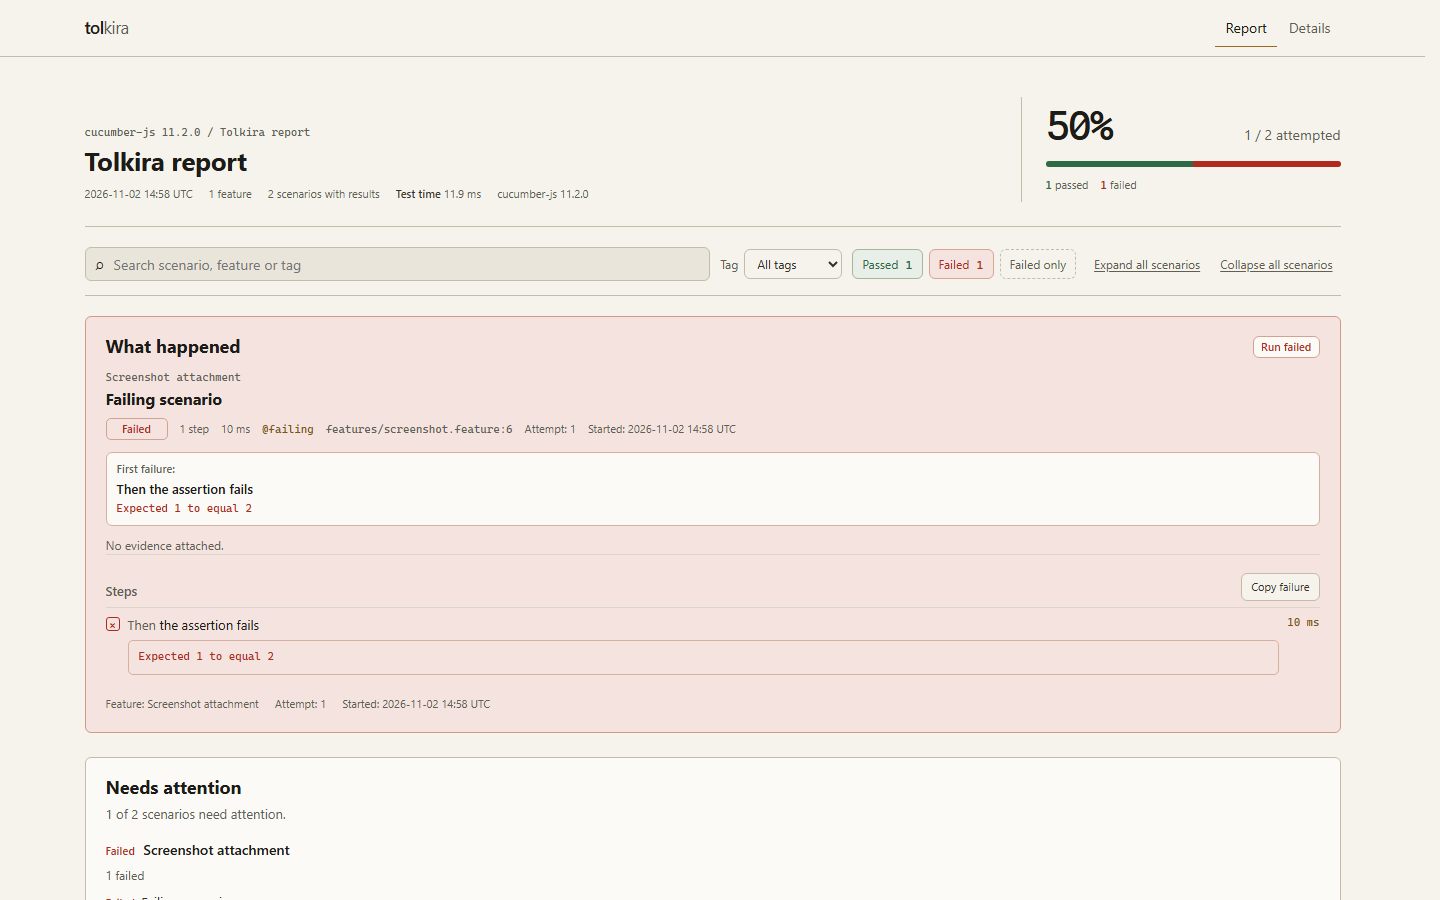
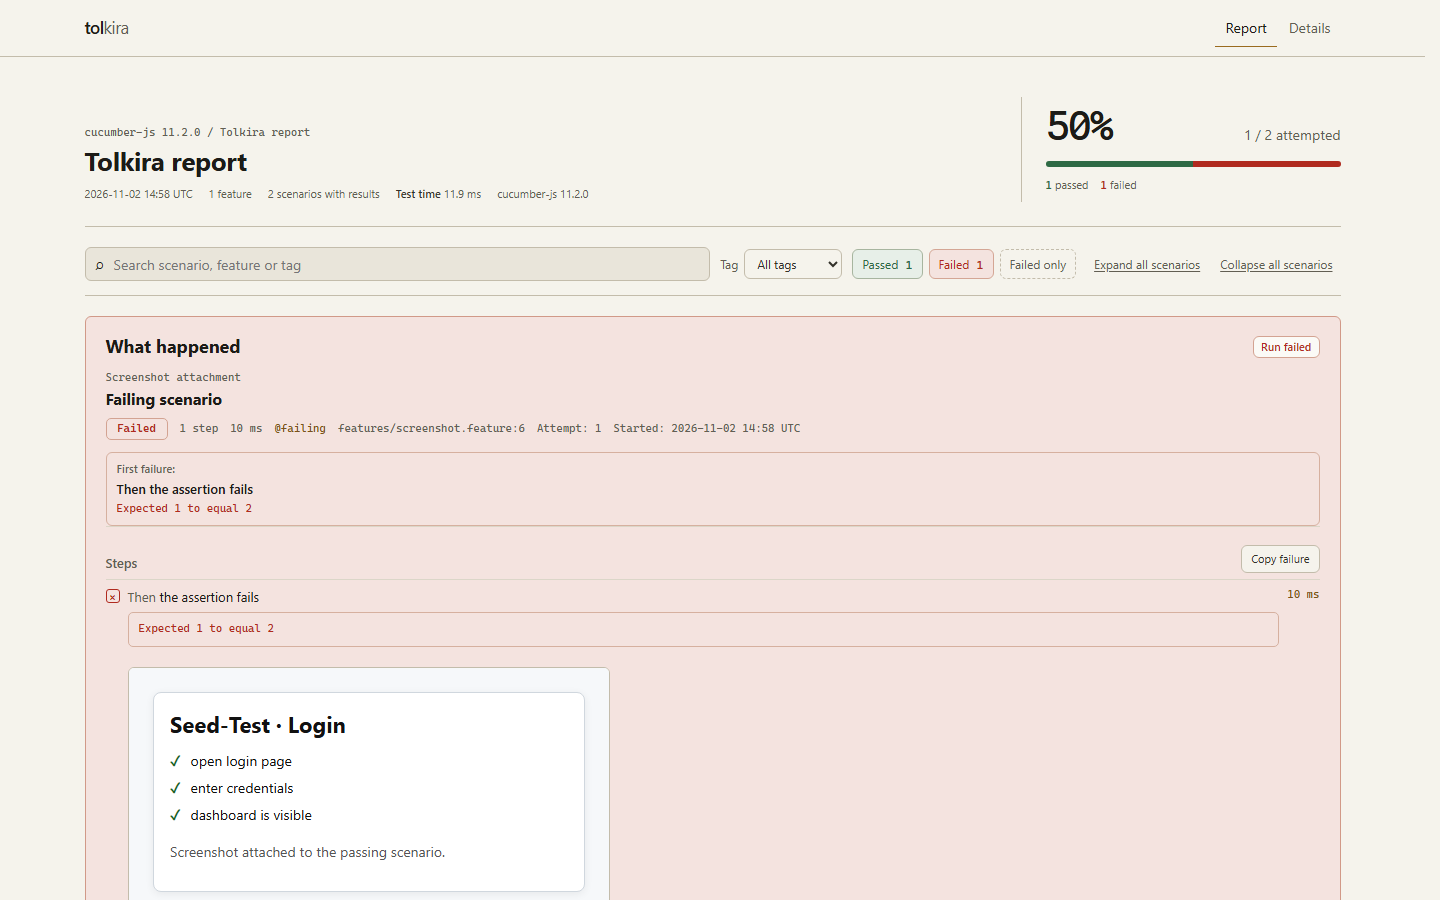
docs(report): refresh incident rasters and record review fixes (B-057)

diff --git a/openspec/changes/report-incident-review/proposal.md b/openspec/changes/report-incident-review/proposal.md
@@ -35,14 +35,16 @@ Tracking: no remote issue; this is the 0.7 redesign slice under B-057.
   the first failing step and the first line of its error (or the diagnostic
   lead and the baseline badge); the full detail follows. The panel is not
   affected by the toolbar search or status/tag filters and has no CTA into the
-  filtered index. The copy-scope fix is the only client change (failure copy
-  only; the log copy keeps its attachment details), and its bundle delta is
+  filtered index. The client changes are the failure copy scope (failure copy
+  only; the log copy keeps its attachment details), the scenario-scoped
+  expand/collapse controls and the list-scoped empty copy; the bundle delta is
   measured. The expand/collapse controls are scoped to scenario rows so the
   panel stays open; the filtered empty copy names the list; the triage's first
   link points at the panel.
 - When several scenarios need attention, the panel shows the first and a
   localized remaining count; the rest stay in the triage block and the index.
-  No selector and no new script; the copy-scope fix is the only client change.
+  No selector and no new script; those three small client deltas are the only
+  client change.
 - Render the panel in the default, static, print and PDF forms.
 - Apply the Incident review visual language in a **separate commit** from the
   panel: chart-neutral paper and ink, one system sans, mono for measurements,
@@ -52,7 +54,8 @@ Tracking: no remote issue; this is the 0.7 redesign slice under B-057.
   inherit the tokens. Each commit re-pins the report characterization hashes.
 
 Out of scope: no summary, JSON, CI, email, manifest or history schema change; no
-new client script file (one existing-client copy-scope fix); no input,
+new client script file (three small existing-client changes: failure copy scope,
+scenario-scoped expand/collapse, list-scoped empty copy); no input,
 attachment-policy or path change; no Details/Trends layout change beyond shared
 tokens; no removal of the triage block; no run-level hook panel
 (BeforeAll/AfterAll stay in the existing run hooks section); no dependency; no
@@ -74,5 +77,5 @@ tokens. There is no second copy of the detail; a screenshot still appears as
 the row thumbnail and in the panel detail, exactly as today's open row renders
 it, and that duplicated payload is measured with a screenshot fixture. The JSON
 summary, CI output, email, manifest and history bytes stay unchanged. The
-client bundle changes only by the copy-scope fix, measured. Every host row and
+client bundle changes only by the three small client deltas, measured. Every host row and
 the three-engine browser matrix apply because the report shell changes.

diff --git a/openspec/changes/report-incident-review/design.md b/openspec/changes/report-incident-review/design.md
@@ -122,7 +122,8 @@ feature index: its copy says no scenarios **in the list** match and the
 incident panel remains visible. The triage's first-incident link points at the
 panel (`#incident`); the rest point at their rows. The selected incident id is
 passed to `renderTriage` as a parameter; the selector stays in `report.ts`, so
-no import cycle is introduced. The copy-scope fix is the only client change.
+no import cycle is introduced. The client changes are the failure copy scope,
+the scenario-scoped expand/collapse controls and the list-scoped empty copy.
 
 The panel detail stays open and is not a disclosure; the toolbar's expand and
 collapse controls are scoped to the scenario rows ("scenarios") so they do not
@@ -242,7 +243,7 @@ the README hero screenshot is refreshed with raster provenance.
 - Duplication with the triage is navigation, not evidence; the triage stays.
 - Report bytes: the detail moves, it is not duplicated; the size delta is
   measured. JSON/CI/email/manifest/history bytes stay unchanged; the client
-  bundle changes only by the copy-scope fix, measured.
+  bundle changes only by the three small client deltas, measured.
 - CMP parity records only the intended report differences.
 
 ## 9. Acceptance criteria
@@ -268,8 +269,8 @@ the README hero screenshot is refreshed with raster provenance.
   baseline badge; the remaining-count line renders when several incidents
   exist.
 - AC6: Default, static, print and PDF render the panel; it is not filtered; no
-  new client script or network request is added; the one copy-scope fix keeps
-  the copy actions working.
+  new client script or network request is added; the three small client
+  deltas keep the copy actions working.
 - AC7: No evidence yields the localized no-evidence line; attachments use the
   existing safe path; escaping is unchanged.
 - AC8: English and German catalogs carry every new key; plurals use the
@@ -282,8 +283,8 @@ the README hero screenshot is refreshed with raster provenance.
   contrast holds on paper, surface-2 and surface-3, including status text, in
   light, dark and print.
 - AC11: Report HTML changes by design; summary, JSON, CI, email, manifest and
-  history bytes are unchanged; the client bundle changes only by the
-  copy-scope fix, measured; the report-size delta is recorded; characterization
+  history bytes are unchanged; the client bundle changes only by the three
+  small client deltas, measured; the report-size delta is recorded; characterization
   hashes are re-pinned per commit; host rows 1-5, the three-engine matrix and
   CMP are recorded.
 - AC12: The toolbar's expand/collapse controls are scoped to scenario rows; the

diff --git a/docs/COMPARISON.md b/docs/COMPARISON.md
@@ -27,7 +27,8 @@ compares the report shell and migration content only; `--static`, history and
 
 ## Screenshots
 
-Overview: [`overview.png`](comparison/overview.png).
+Overview: `overview.png` is the 0.6-era composite and is not part of this 0.7
+comparison; the table below shows the current shell.
 All images are in [`docs/comparison/`](comparison/).
 
 | Mode | Old reporter | Tolkira |
@@ -35,8 +36,8 @@ All images are in [`docs/comparison/`](comparison/).
 | Scenario, expanded | [`old-scenario-expanded.png`](comparison/old-scenario-expanded.png) | [`new-shell-scenario-expanded.png`](comparison/new-shell-scenario-expanded.png) |
 | Story, expanded | [`old-story-expanded.png`](comparison/old-story-expanded.png) | [`new-shell-story-expanded.png`](comparison/new-shell-story-expanded.png) |
 | Group, expanded | [`old-group-expanded.png`](comparison/old-group-expanded.png) | [`new-shell-group-expanded.png`](comparison/new-shell-group-expanded.png) |
-| Failed story, expanded | [`old-failed-expanded.png`](comparison/old-failed-expanded.png) | [`new-shell-failed.png`](comparison/new-shell-failed.png) |
-| Screenshot attachment | [`old-screenshot-expanded.png`](comparison/old-screenshot-expanded.png) | [`new-shell-screenshot.png`](comparison/new-shell-screenshot.png) |
+| Failed story, expanded | [`old-failed-expanded.png`](comparison/old-failed-expanded.png) | [`new-shell-failed-expanded.png`](comparison/new-shell-failed-expanded.png) |
+| Screenshot attachment (incident panel) | [`old-screenshot-expanded.png`](comparison/old-screenshot-expanded.png) | [`new-shell-screenshot.png`](comparison/new-shell-screenshot.png) |
 | Offline, story | [`old-story-offline.png`](comparison/old-story-offline.png) | [`new-shell-story-offline.png`](comparison/new-shell-story-offline.png) |
 
 ## What works
@@ -61,8 +62,8 @@ All images are in [`docs/comparison/`](comparison/).
 
 - Old story report: about 100 kB, but with four remote dependencies.
 - Tolkira story report: one HTML file with CSS and script inline and no
-  network dependency. The stylesheet source is 50,569 B; every report embeds
-  its 43,924 B minified form, 6,645 B (13 %) smaller.
+  network dependency. The stylesheet source is 51,961 B; every report embeds
+  its 45,203 B minified form.
 - Tolkira stress run (`npm run stress -- <count>`):
   - 1,000 scenarios / 3,000 steps: about 0.22 s, 1.4 MB HTML.
   - 5,000 scenarios / 15,000 steps: about 0.42 s, 6.9 MB HTML.

diff --git a/docs/comparison/PROVENANCE.md b/docs/comparison/PROVENANCE.md
@@ -1,23 +1,33 @@
 # Comparison raster provenance
 
 All `new-shell-*.png` images and `tolkira-0.7-report.png` were captured on
-2026-11-27 from the 0.7 Incident review development snapshot.
+2026-11-27 from the 0.7 Incident review development snapshot at HEAD after the
+row-link and status-token fixes.
 
 - Host: Windows, Chromium via the repository's Playwright dev dependency.
 - Viewport: 1440 × 900, device scale factor 1, light colour scheme unless the
   file name says `dark`.
+- `*expanded` captures click `Expand all scenarios` before the screenshot and
+  use a full-page capture so the expanded rows and the row link are visible;
+  the other captures are viewport-only.
 - `new-shell-scenario*`: `test/fixtures/legacy/minimal.json`, title `Seed-Test`.
 - `new-shell-story*`: `test/fixtures/legacy/happy.json`, title
-  `Seed-Test story`; `-analysis` opens the Details tab.
+  `Seed-Test story`; `-analysis` opens the Details tab; `-offline` uses an
+  offline browser context.
 - `new-shell-group*`: `happy.json`, `unhappy.json` and `minimal.json`, title
   `Seed-Test group`.
-- `new-shell-failed*` and `new-shell-dark.png`: `unhappy.json`, title
-  `Seed-Test failed`.
+- `new-shell-failed*` and `new-shell-dark.png`: `failed.json`, title
+  `Seed-Test failed`. `failed.json` carries the only real failed step in these
+  fixtures.
 - `new-shell-screenshot*` and `tolkira-0.7-report.png`:
-  `test/fixtures/messages/screenshot.ndjson`, title `Tolkira report`.
-- `new-shell-story-offline.png`: the story report with the browser context
-  offline; the single file needs no network.
-- `*expanded` captures click `Expand all scenarios` before the screenshot.
+  `test/fixtures/messages/screenshot.ndjson`, title `Tolkira report`, with its
+  inline PNG moved from the passing scenario's step to the failing scenario's
+  failed step so the incident panel shows the screenshot as evidence. The base
+  fixture itself attaches the image to the passing scenario.
+- `tolkira-0.7-report.png` is the byte-identical viewport capture of
+  `new-shell-screenshot.png`; it is a development snapshot, not a release hero.
+- `overview.png` is the 0.6-era composite from 2026-11-04. It predates the
+  incident panel and is not part of the 0.7 comparison.
 
 Reproduce with the built CLI and a Playwright Chromium page:
 

diff --git a/openspec/changes/report-incident-review/tasks.md b/openspec/changes/report-incident-review/tasks.md
@@ -39,7 +39,8 @@
   elevated/shadowed container. Add a contrast assertion over paper,
   surface-2, surface-3 and the status text in light, dark and print. Prove
   summary, JSON, CI, email, manifest and history bytes unchanged; the client
-  bundle delta is the copy-scope fix only.
+  bundle delta is explained by the three allowed client changes: the failure
+  copy scope, scenario-scoped expand/collapse and the list-scoped empty copy.
 - [x] 2.4 Write `test/e2e/incident.spec.ts`: above-the-fold minimum (summary,
   status, first failing step and the first error line), row link keyboard and
   focus, copy failure/log inside the panel with the feature title, scenario
@@ -106,13 +107,11 @@
 - [x] 4.2 Run `npm run check` (typecheck, lint, knip, format, build, coverage)
   and `npm run hygiene`.
   Result: i18n, assets, typecheck, lint, knip, format and build passed; the
-  unit/coverage run has 2,157 passed, 11 skipped and 3 failed of 2,171 tests.
-  Three Red tests in
-  `test/render-incident.test.ts` remain red because they assume 0-based
-  `scenarioId`s and count closed-row `.detailInline` bodies, which contradicts
-  the existing 1-based anchors (`#scenario-1-1` in the Red e2e) and the
-  server-rendered body every `<details>` needs for no-JS opening. They were not
-  edited or skipped. `npm run hygiene` is green.
+  unit/coverage run has 2,162 passed, 11 skipped and 0 failed of 2,173 tests.
+  Correction: the earlier record of three Red tests was stale; `5654f8f`
+  corrected their 0-based ids to the existing 1-based anchors and their
+  closed-row `.detailInline` count to one server-rendered body per disclosure
+  row. No test is skipped or loosened. `npm run hygiene` is green.
 - [ ] 4.3 Run `npm run test:e2e` on Chromium, Firefox and WebKit; viewports
   320, 390, 768, 1024, 1440 and 320 at 200 % text zoom.
 - [ ] 4.4 Run host rows 1-5 from `docs/DROP-IN-VALIDATION.md`; record host,

diff --git a/openspec/changes/report-incident-review/specs/report-rendering/spec.md b/openspec/changes/report-incident-review/specs/report-rendering/spec.md
@@ -47,8 +47,9 @@ in that set.
   their rows; the triage may list additional skipped rows beyond the incident
   set
 - **AND** the others stay reachable through the triage block and the index
-- **AND** no selector and no new script are added; the copy-scope fix is the
-  only client change
+- **AND** no selector and no new script are added; the client changes are the
+  failure copy scope, scenario-scoped expand/collapse and the list-scoped empty
+  copy
 
 #### Scenario: Mixed skipped and failed rows
 
@@ -77,7 +78,7 @@ in that set.
 - **AND** the triage and source strip keep their existing client hiding
 - **AND** the filtered empty state is scoped to the feature index and says no
   scenarios in the list match
-- **AND** the copy-scope fix does not change filtering
+- **AND** the client changes do not change filtering
 
 #### Scenario: Expand and collapse controls
 

diff --git a/DESIGN.md b/DESIGN.md
@@ -66,8 +66,9 @@ Use the token names, never raw colours.
 | `--radius`, `--shadow` | Shared 6 px panel radius; no elevation (`none`) |
 
 The Incident review palette is chart-neutral paper and ink with compact chips
-and one-pixel rules. Status colours keep their role; every text role holds at
-least 4.5:1 contrast on paper, surface-2 and surface-3 in light, dark and print.
+and one-pixel rules. Status colours keep their role; every text role used holds
+at least 4.5:1 contrast on paper, surface-2 and surface-3 in light, dark and
+print (ink, ink-2, muted, accent-text, pass, fail, pending and undefined).
 The ANSI palette is unchanged.
 
 Dark mode is a token override under `prefers-color-scheme: dark`; it never

diff --git a/README.md b/README.md
@@ -10,6 +10,9 @@ when the optional Playwright Chromium engine is installed.
 
 ![Tolkira report showing the incident panel with the failed scenario, its error and an inline screenshot](docs/comparison/tolkira-0.7-report.png)
 
+*Development snapshot of the 0.7 Incident review shell; the current release is
+v0.6.1.*
+
 Current release: **v0.6.1** - [npm](https://www.npmjs.com/package/tolkira) - [Changelog](https://github.com/Silasoa/tolkira/blob/main/docs/CHANGELOG.md)
 
 > **How this is built:** Tolkira is human-directed and largely AI-generated.

diff --git a/GLOSSARY.md b/GLOSSARY.md
@@ -73,7 +73,8 @@ and the old English fallback map is gone.
 | What happened | Was passiert ist |
 | Shown above | Oben angezeigt |
 | Run failed | Lauf fehlgeschlagen |
-| Needs attention | Aufmerksamkeit nötig |
+| Needs attention | Aufmerksamkeit erforderlich |
+| No evidence attached | Kein Nachweis angehängt |
 
 The address form is impersonal; avoid `du` and `Sie`. The full
 `Fehlgeschlagen` chip is used and wraps; there is no short form. `de` is the

diff --git a/docs/I18N.md b/docs/I18N.md
@@ -253,6 +253,12 @@ guard.
 | Still failing | Weiterhin fehlgeschlagen |
 | Not in this run | Nicht in diesem Lauf |
 | Ambiguous group | Mehrdeutige Gruppe |
+| Incident | Zwischenfall |
+| What happened | Was passiert ist |
+| Shown above | Oben angezeigt |
+| Run failed | Lauf fehlgeschlagen |
+| Needs attention | Aufmerksamkeit erforderlich |
+| No evidence attached | Kein Nachweis angehängt |
 | Feature | Feature |
 | Hook | Hook |
 | Rule | Rule |
